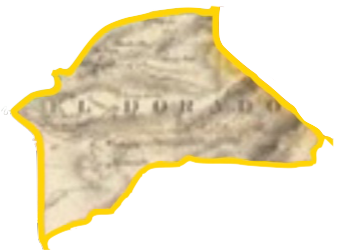
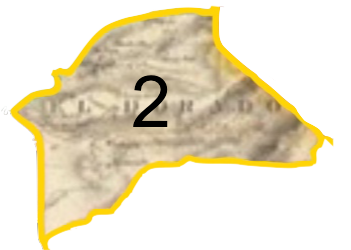
setup main map and story

Changed region(s): [[0.3704, 0.28, 0.4843, 0.532]]

diff --git a/main.html b/main.html
@@ -22,7 +22,7 @@
 		#map {
 			position: absolute;
 			top: 10px;
-			left: 400px;
+			left: 500px;
 		}
 
 		.map-region {
@@ -52,10 +52,10 @@
 				<p>You inherited this plot of land from your father. Will you find enough gold to make your fortune?
 				</p>
 				<h2>Choose a Level</h2>
-				<button>Level 1</button>
-				<button>Level 2</button>
-				<button>Level 3</button>
-				<button>Level 4</button>
+				<a href="gamelevel1.html"><button>Level 1: Yuba</button></a>
+				<a href="gamelevel2.html"><button>Level 2: El Dorado</button></a>
+				<button>Level 3: Calaveras</button>
+				<button>Level 4: Tuolumne</button>
 			</div>
 			
 
@@ -77,9 +77,19 @@
 
 		<div id="story-popup" class="popup">
 		  <div class="popup-content">
-		    <span id="story-popup-close" class="close">&times;</span>
-		  	hello
-		  	<button>Next -></button>
+		    <!-- <span id="story-popup-close" class="close">&times;</span> -->
+		  	<p>
+		  		The year is 1846 and you get by as a mid-level banker in the big city. The city life and the east coast has been good to you but you can’t help but think about something greater that lies out west. Your dad has been making a decent living as a gold-miner in the California territory for a few years now but that back-breaking life isn’t for you. You’re comfortable at the bank and it pays the bills.
+		  	</p>
+
+			<p>
+				A few days later, you receive an ominous-looking letter. Your dad passed last week. You two always wrote letters back and forth but hadn’t seen each other for years. As you continue to read, you realize that your dad has left you all of his land in California. He’d always made a good living with painstaking work but you’ve heard rumors of riches to be had out west. That banking job doesn’t feel so cozy anymore; you want the open land, the open air, and the freedom of the frontier.  There was an even a guy in your office that quit his job a couple of weeks ago to move out west. You were secretly jealous of the care-free look on his face. 
+			</p>
+
+			<p>
+				Your dad left you some notes and tips on how to get started once you get there but you want to turn his land into the fortune it can really be. Use maps, the latest technology, and your best intuition to turn this small operation into an empire. Can you be the most prosperous gold miner in all of California?
+			</p>
+			<button id="continue-btn">Continue</button>
 		  </div>
 		</div>
 

diff --git a/main.js b/main.js
@@ -13,16 +13,10 @@ Util.events(document, {
 	"DOMContentLoaded": function() {
 
 		Util.one("#story-popup").style.display = "block";
-		Util.one("#story-popup-close").onclick = function() {
+
+		Util.one("#continue-btn").onclick = function() {
 			Util.one("#story-popup").style.display = "none";
 		}
-
-		window.onclick = function(event) {
-		var popup = Util.one("#story-popup");
-		if (event.target == popup) {
-			popup.style.display = "none";
-		}
-    }
 
 
 	},
@@ -33,7 +27,7 @@ Util.events(document, {
 
 	// Click events arrive here
 	"click": function(evt) {
-		console.log(evt.target);
+		// console.log(evt.target);
 
 	}
 });
